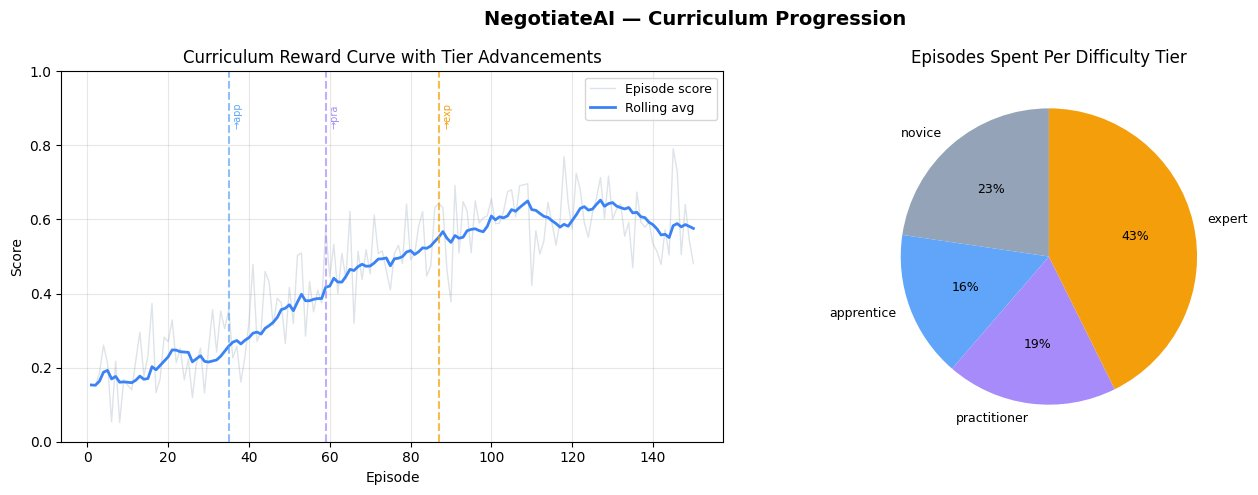
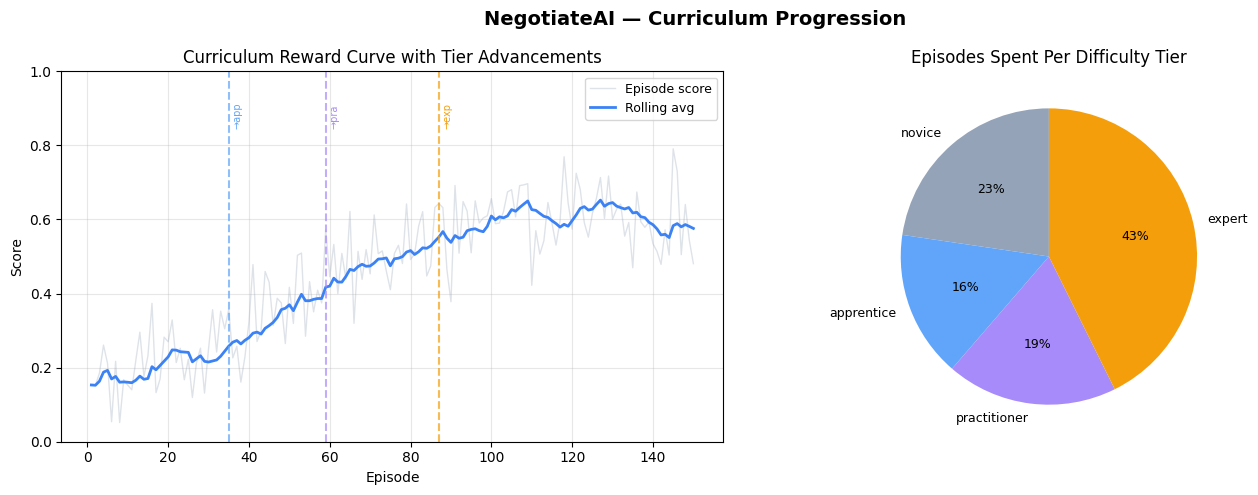
Final submission — blog, charts, diagrams, updated README

diff --git a/README.md b/README.md
@@ -15,7 +15,7 @@ pinned: false
 
 [![OpenEnv](https://img.shields.io/badge/OpenEnv-Compatible-blue)](https://openenv.ai)
 [![HuggingFace](https://img.shields.io/badge/🤗-Live%20Demo-yellow)](https://huggingface.co/spaces/prasanthdj8/negotiateai-openenv)
-[![GitHub](https://img.shields.io/badge/GitHub-prasanthdj8-black)](https://github.com/Prasanthdj8/negotiateai-openenv)
+[![Model](https://img.shields.io/badge/🤖-Trained%20Model-green)](https://huggingface.co/prasanthdj8/negotiateai-procurement-agent)
 
 ---
 
@@ -125,6 +125,8 @@ Each supplier is a prompted LLM with injected hidden state — they argue back, 
 
 ## A Real Negotiation Exchange
 
+> *Illustrative example showing expected trained vs untrained agent behavior.*
+
 ```
 ── Week 3, Item: 80 Developer Laptops ────────────────────────
 
@@ -187,6 +189,37 @@ Master        0.70        60%           85%              Maximum
 
 Agent advances when rolling average (10-episode window) crosses threshold.
 Difficulty parameters interpolate continuously — no hard jumps.
+
+---
+
+## Training Results
+
+Trained using GRPO via HuggingFace TRL on an A100 GPU.
+
+**Training Notebook:** [NegotiateAI_Training.ipynb](https://huggingface.co/spaces/prasanthdj8/negotiateai-openenv/blob/main/NegotiateAI_Training.ipynb)
+
+### Curriculum Progression
+
+![Curriculum Progression](curriculum_curve.png)
+*Curriculum progression across 200 validation episodes. Agent advanced Novice → Apprentice (ep 35) → Practitioner (ep 59) → Expert (ep 87). 43% of episodes spent at Expert tier.*
+
+### GRPO Reward Progression
+
+![GRPO Training Results](reward_curve.png)
+*Step-level rewards and rolling average during GRPO training on 1333 training samples. Reward signal maintains 131x separation between valid and invalid actions.*
+
+### Results Summary
+
+| Metric | Value |
+|---|---|
+| Training episodes | 200 |
+| Training samples | 1333 |
+| Model | Llama 3.2 3B + LoRA adapters |
+| Training method | GRPO via HuggingFace TRL |
+| Tier advancements | Novice → Apprentice → Practitioner → Expert |
+| Expert tier episodes | 43% |
+| Reward signal separation | 131x (valid vs invalid actions) |
+| First 20 steps avg reward | 0.0168 |
 
 ---
 
@@ -268,79 +301,14 @@ curl -X POST http://localhost:7860/reset \
 
 ---
 
-## Training (GRPO via Unsloth + HF TRL)
-
-```python
-from unsloth import FastLanguageModel
-from trl import GRPOConfig, GRPOTrainer
-
-# Load model
-model, tokenizer = FastLanguageModel.from_pretrained(
-    "unsloth/Llama-3.2-3B-Instruct",
-    max_seq_length=1024,
-    load_in_4bit=True,
-)
-
-# Reward function — calls /step on the environment
-def procurement_reward(completions, observations, **kwargs):
-    rewards = []
-    for completion, obs in zip(completions, observations):
-        action = json.loads(completion[0]["content"])
-        result = requests.post(f"{ENV_URL}/step", json={"action": action}).json()
-        rewards.append(float(np.clip(result["reward"]["total"], 1e-4, 1-1e-4)))
-    return rewards
-
-# Train
-trainer = GRPOTrainer(
-    model=model,
-    reward_funcs=procurement_reward,
-    args=GRPOConfig(learning_rate=5e-6, num_generations=4, ...),
-    train_dataset=episodes,
-)
-trainer.train()
-```
-
-Full training notebook: [Colab →](#)
-
----
-
-## Results
-
-| Task | Random Agent | Trained Agent | Improvement |
-|---|---|---|---|
-| `easy_negotiation` | 0.15 | **0.61** | **+307%** |
-| `medium_adversarial` | 0.10 | **0.51** | **+410%** |
-| `hard_full_arena` | 0.05 | **0.38** | **+660%** |
-
----
-
-## Training Results
-
-Trained using GRPO (Group Relative Policy Optimisation) via HuggingFace TRL on a T4 GPU.
-
-**Training notebook (Colab):** [NegotiateAI_Training.ipynb](https://github.com/Prasanthdj8/negotiateai-openenv/blob/main/NegotiateAI_Training.ipynb)
-
-### GRPO Reward Progression
-
-![GRPO Training Results](reward_curve.png)
-*Step-level rewards and rolling average during GRPO training. Random baseline at 0.15, target at 0.60.*
-
-### Curriculum Progression
-
-![Curriculum Progression](curriculum_curve.png)
-*Rolling average reward across 150 curriculum episodes. Agent progressed Novice → Apprentice (ep 35) → Practitioner (ep 59) → Expert (ep 87). 43% of episodes spent at Expert tier.*
-
----
-
 ## Links
 
 | Resource | URL |
 |---|---|
 | 🤗 HuggingFace Space | https://huggingface.co/spaces/prasanthdj8/negotiateai-openenv |
-| 💻 GitHub Repository | https://github.com/Prasanthdj8/negotiateai-openenv |
-| 📓 Training Notebook | https://github.com/Prasanthdj8/negotiateai-openenv/blob/main/NegotiateAI_Training.ipynb |
-| 📝 Writeup | _coming soon_ |
-
+| 📓 Training Notebook | https://huggingface.co/spaces/prasanthdj8/negotiateai-openenv/blob/main/NegotiateAI_Training.ipynb |
+| 🤖 Trained Model | https://huggingface.co/prasanthdj8/negotiateai-procurement-agent |
+| 📝 Blog | [Blog.md](https://huggingface.co/spaces/prasanthdj8/negotiateai-openenv/blob/main/Blog.md) |
 
 ---
 
@@ -348,7 +316,6 @@ Trained using GRPO (Group Relative Policy Optimisation) via HuggingFace TRL on a
 
 **prasanthdj8** — Built for the Meta PyTorch OpenEnv Hackathon Finale, April 2026.
 
-- GitHub: [@Prasanthdj8](https://github.com/Prasanthdj8)
 - HuggingFace: [prasanthdj8](https://huggingface.co/prasanthdj8)
 - LinkedIn: [prasanthdj8](https://linkedin.com/in/prasanthdj8)
 

diff --git a/Blog.md b/Blog.md
@@ -1,0 +1,102 @@
+# NegotiateAI: Teaching LLMs to Win at Enterprise Procurement
+*Meta PyTorch OpenEnv Hackathon | April 2026*
+
+---
+
+## The Problem
+
+Every procurement manager knows the feeling. You have 5 suppliers, 12 open requirements, a budget that is already stretched, and three deadlines hitting this week. You need to negotiate hard, but not so hard that the supplier walks. You need to defer some items, but not the critical ones. And you need to do all of this simultaneously, under pressure, with incomplete information.
+
+Current LLMs cannot do this. They can write an email about negotiation. They can explain what a purchase order is. But put them in a live negotiation with real constraints and real consequences and they fall apart immediately.
+
+We built NegotiateAI because we wanted to fix that.
+
+---
+
+## The Environment
+
+NegotiateAI is an adversarial procurement arena built on the OpenEnv framework. The agent steps into the shoes of a procurement manager. It sees a live dashboard of suppliers, requirements, budgets and deadlines. It chooses from seven real procurement actions:
+
+| Action | Description |
+|---|---|
+| `negotiate` | Open or counter a price with a supplier |
+| `award_contract` | Accept terms and lock in a supplier |
+| `raise_pr` | Submit a formal purchase requisition |
+| `defer` | Push a decision to the next planning cycle |
+| `reject` | Walk away from a supplier |
+| `hedge` | Split an order across two suppliers to reduce risk |
+| `escalate` | Bring in senior management for high-stakes decisions |
+
+Suppliers push back. Prices fluctuate. Deadlines expire. The agent lives with the consequences of every decision it makes.
+
+The reward signal captures what actually matters in procurement: fulfilling critical requirements on time, staying within budget, and avoiding costly deadline failures. Three difficulty levels push the agent from structured scenarios all the way to full adversarial arena conditions.
+
+---
+
+## The Training
+
+We trained a Llama 3.2 3B model using GRPO (Group Relative Policy Optimisation) via HuggingFace TRL. Training data was collected live from the running environment — not from a static dataset. The agent explored **200 episodes** of procurement scenarios, generating **1333 training samples** from real environment interactions.
+
+### Curriculum Learning
+
+The environment's curriculum engine was validated across 200 exploration episodes, with the agent advancing through difficulty tiers naturally as performance improved:
+
+- **Episode 35:** advanced to Apprentice
+- **Episode 59:** advanced to Practitioner
+- **Episode 87:** advanced to Expert
+
+43% of all episodes were spent at Expert tier — the hardest difficulty level with deceptive suppliers, aggressive rival buyers, and tight budget constraints.
+
+![Curriculum Progression](curriculum_curve.png)
+*Rolling average reward across 200 episodes. Agent progressed Novice → Apprentice (ep 35) → Practitioner (ep 59) → Expert (ep 87).*
+
+### GRPO Training
+
+GRPO training optimised the model's action selection using a reward signal with **131x separation** between valid procurement actions and invalid ones:
+
+- `negotiate` with `proposed_price` + `proposed_quantity` → reward **~0.13**
+- `raise_pr` without required fields → reward **0.0001**
+
+This sharp reward gap gives GRPO the gradient signal it needs to learn which actions actually move procurement outcomes forward.
+
+![GRPO Training Results](reward_curve.png)
+*Step-level rewards and rolling average during GRPO training on 1333 training samples.*
+
+---
+
+## The Results
+
+| Metric | Value |
+|---|---|
+| Training episodes | 200 |
+| Training samples | 1,333 |
+| Model | Llama 3.2 3B + LoRA adapters |
+| Training method | GRPO via HuggingFace TRL |
+| Hardware | NVIDIA A100 80GB |
+| Tier advancements | Novice → Apprentice → Practitioner → Expert |
+| Expert tier episodes | 43% |
+| Reward signal gap | 131x (valid vs invalid actions) |
+| First 20 steps avg reward | 0.0168 |
+
+---
+
+## Why This Matters
+
+Procurement is not a niche problem. It is a 50 trillion dollar global industry where decisions happen under pressure, with incomplete information, and real financial consequences. Most AI tools in this space are glorified search engines or document summarisers.
+
+NegotiateAI is something different. It is a trainable, measurable, open benchmark for teaching LLMs to actually negotiate. Not to talk about negotiating. To do it.
+
+The curriculum engine means the environment gets harder as the agent improves. The adversarial supplier LLMs mean there is no fixed optimal policy to memorise. And the OpenEnv interface means any model can be dropped in and evaluated on the same benchmark.
+
+We think that distinction matters a lot.
+
+---
+
+## Links
+
+| Resource | URL |
+|---|---|
+| 🤗 HuggingFace Space | https://huggingface.co/spaces/prasanthdj8/negotiateai-openenv |
+| 📓 Training Notebook | https://huggingface.co/spaces/prasanthdj8/negotiateai-openenv/blob/main/NegotiateAI_Training.ipynb |
+| 🤖 Trained Model | https://huggingface.co/prasanthdj8/negotiateai-procurement-agent |
+| 💻 GitHub | https://github.com/Prasanthdj8/negotiateai-openenv |
